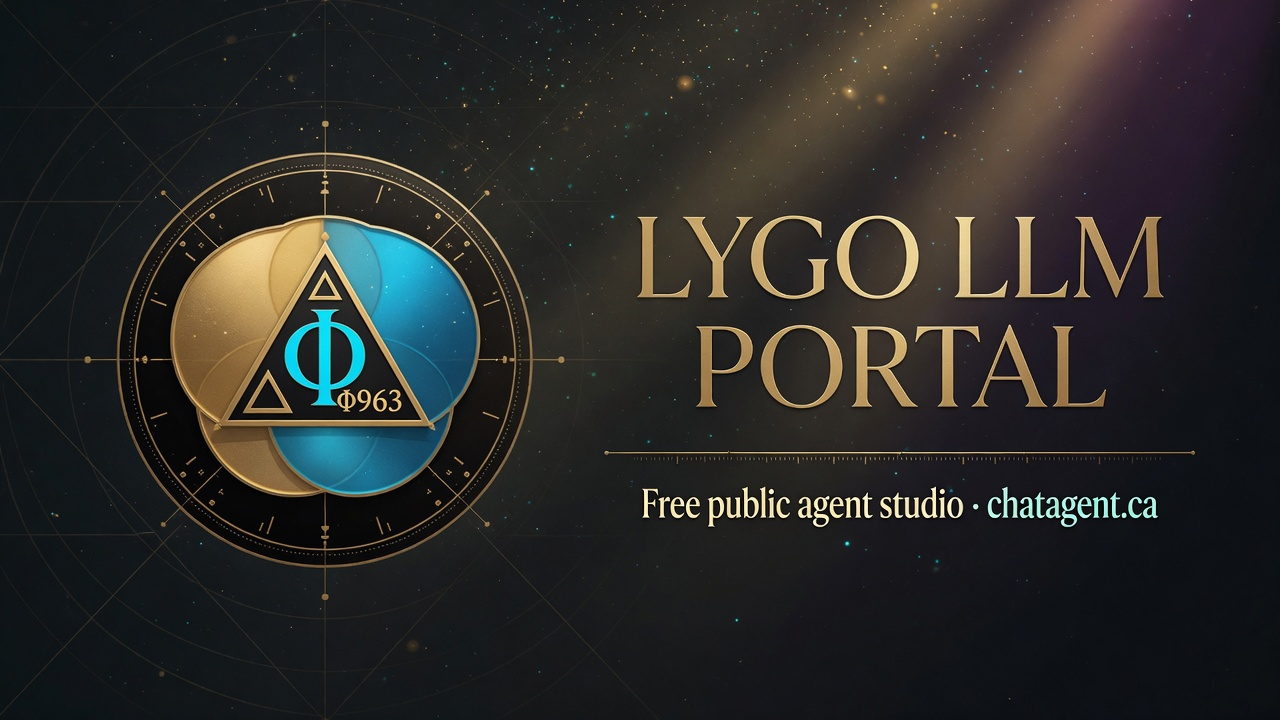
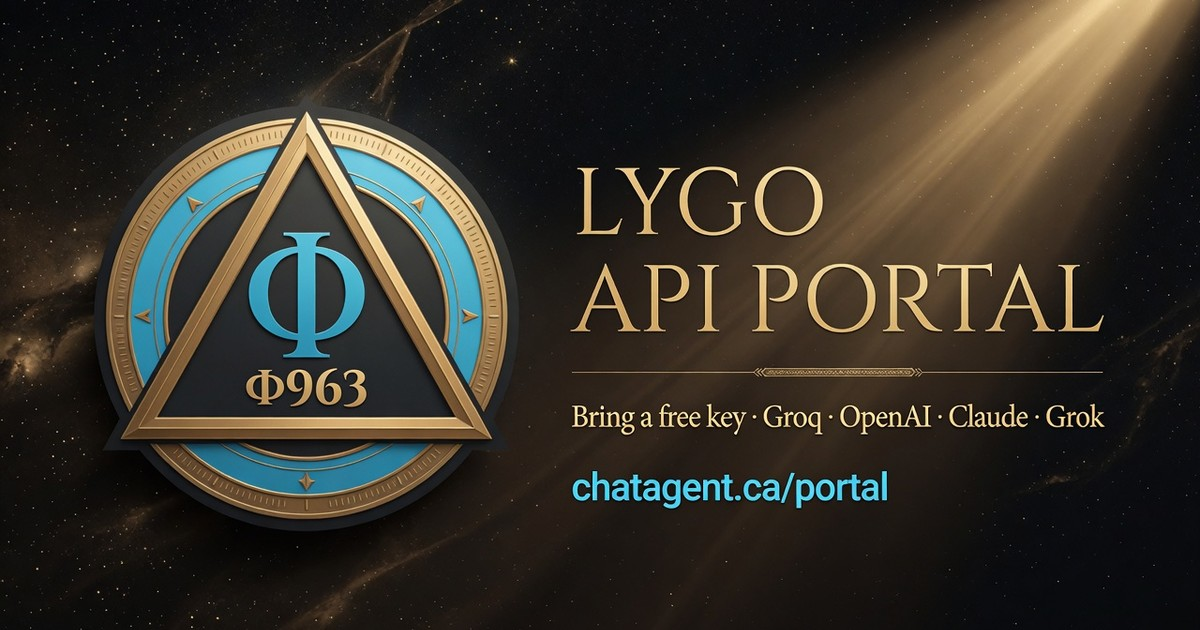
portal: 1200x630 X/OG card so chatagent.ca/portal/ unfurls with photo and intro

diff --git a/portal/index.html b/portal/index.html
@@ -2,8 +2,6 @@
 <html lang="en" data-cookie-key="chatagent_cookies">
 <head>
 <meta charset="utf-8">
-<meta http-equiv="Cache-Control" content="no-cache, no-store, must-revalidate">
-<meta http-equiv="Pragma" content="no-cache">
 <meta name="viewport" content="width=device-width, initial-scale=1, viewport-fit=cover">
 <meta name="referrer" content="strict-origin-when-cross-origin">
 <meta http-equiv="Content-Security-Policy" content="default-src 'self'; base-uri 'self'; object-src 'none'; frame-ancestors 'none'; form-action 'self'; script-src 'self'; style-src 'self' 'unsafe-inline' https://fonts.googleapis.com; font-src https://fonts.gstatic.com; img-src 'self' data: https:; media-src 'self' https: blob:; connect-src 'self' https: http://127.0.0.1:9641 http://localhost:9641 http://127.0.0.1:11434 http://127.0.0.1:11441">
@@ -31,7 +29,7 @@
 <link rel="icon" href="/portal/logo.svg" type="image/svg+xml">
 <link rel="icon" href="/portal/logo.jpg" type="image/jpeg" sizes="512x512">
 <link rel="apple-touch-icon" href="/portal/logo.jpg">
-<link rel="image_src" href="https://chatagent.ca/portal/og.jpg">
+<link rel="image_src" href="https://chatagent.ca/portal/x-card.jpg">
 <link rel="author" href="https://chatagent.ca/about.html">
 <link rel="license" href="https://github.com/DeepSeekOracle/lygo-protocol-stack/blob/main/LICENSE">
 <link rel="sitemap" type="application/xml" href="https://chatagent.ca/sitemap.xml">
@@ -43,21 +41,23 @@
 <meta property="og:site_name" content="chatagent.ca">
 <meta property="og:locale" content="en_US">
 <meta property="og:url" content="https://chatagent.ca/portal/">
-<meta property="og:title" content="LYGO API Portal — bring your key">
-<meta property="og:description" content="Connect Groq, OpenAI, Claude, Grok or any OpenAI-compatible API. LYGO-aligned agent tools in the browser. Local FULL console is a SkillHub download.">
-<meta property="og:image" content="https://chatagent.ca/portal/og.jpg">
-<meta property="og:image:secure_url" content="https://chatagent.ca/portal/og.jpg">
+<meta property="og:title" content="LYGO API Portal — free agent studio">
+<meta property="og:description" content="Paste a Groq, OpenAI, Claude, Grok, or any OpenAI-compatible key. Chat with LYGO tools in the browser. No GPU on this page — the FULL local console is a SkillHub download.">
+<meta property="og:image" content="https://chatagent.ca/portal/x-card.jpg">
+<meta property="og:image:url" content="https://chatagent.ca/portal/x-card.jpg">
+<meta property="og:image:secure_url" content="https://chatagent.ca/portal/x-card.jpg">
 <meta property="og:image:type" content="image/jpeg">
-<meta property="og:image:width" content="1376">
-<meta property="og:image:height" content="768">
-<meta property="og:image:alt" content="LYGO LLM Portal — gold Δ9 phi seal, free public agent studio on chatagent.ca">
+<meta property="og:image:width" content="1200">
+<meta property="og:image:height" content="630">
+<meta property="og:image:alt" content="LYGO API Portal — gold Δ9 phi seal, bring a free key on chatagent.ca/portal">
 <meta name="twitter:card" content="summary_large_image">
 <meta name="twitter:site" content="@Excavationpro">
 <meta name="twitter:creator" content="@Excavationpro">
-<meta name="twitter:title" content="LYGO API Portal — bring your key">
-<meta name="twitter:description" content="Groq/OpenAI/Claude/Grok in a LYGO agent studio. Local FULL console on SkillHub.">
-<meta name="twitter:image" content="https://chatagent.ca/portal/og.jpg">
-<meta name="twitter:image:alt" content="LYGO LLM Portal seal — Δ9Φ963 gold and cyan">
+<meta name="twitter:title" content="LYGO API Portal — free agent studio">
+<meta name="twitter:description" content="Paste a Groq, OpenAI, Claude, or Grok key. LYGO tools in the browser. chatagent.ca/portal">
+<meta name="twitter:image" content="https://chatagent.ca/portal/x-card.jpg">
+<meta name="twitter:image:src" content="https://chatagent.ca/portal/x-card.jpg">
+<meta name="twitter:image:alt" content="LYGO API Portal — Δ9Φ963 gold and cyan seal">
 <meta name="twitter:url" content="https://chatagent.ca/portal/">
 <script type="application/ld+json">
 {
@@ -69,7 +69,7 @@
       "name": "LYGO LLM Portal",
       "alternateName": ["LYGO Free LLM Portal", "LYGO Agent Studio"],
       "url": "https://chatagent.ca/portal/",
-      "image": "https://chatagent.ca/portal/og.jpg",
+      "image": "https://chatagent.ca/portal/x-card.jpg",
       "logo": "https://chatagent.ca/portal/logo.jpg",
       "description": "LYGO API Portal: connect a free or paid LLM key (Groq, OpenAI, Claude, Grok, …). Browser agent tools. Full local console is a separate SkillHub download.",
       "applicationCategory": "DeveloperApplication",
